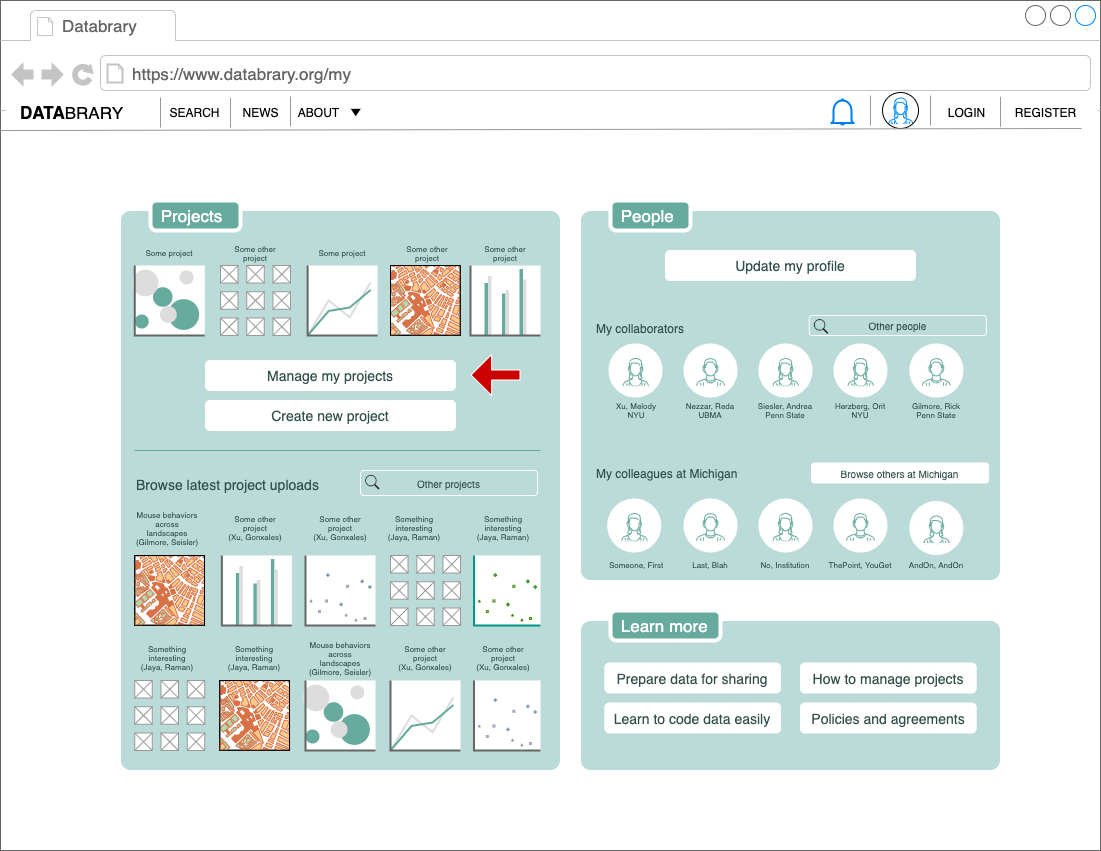
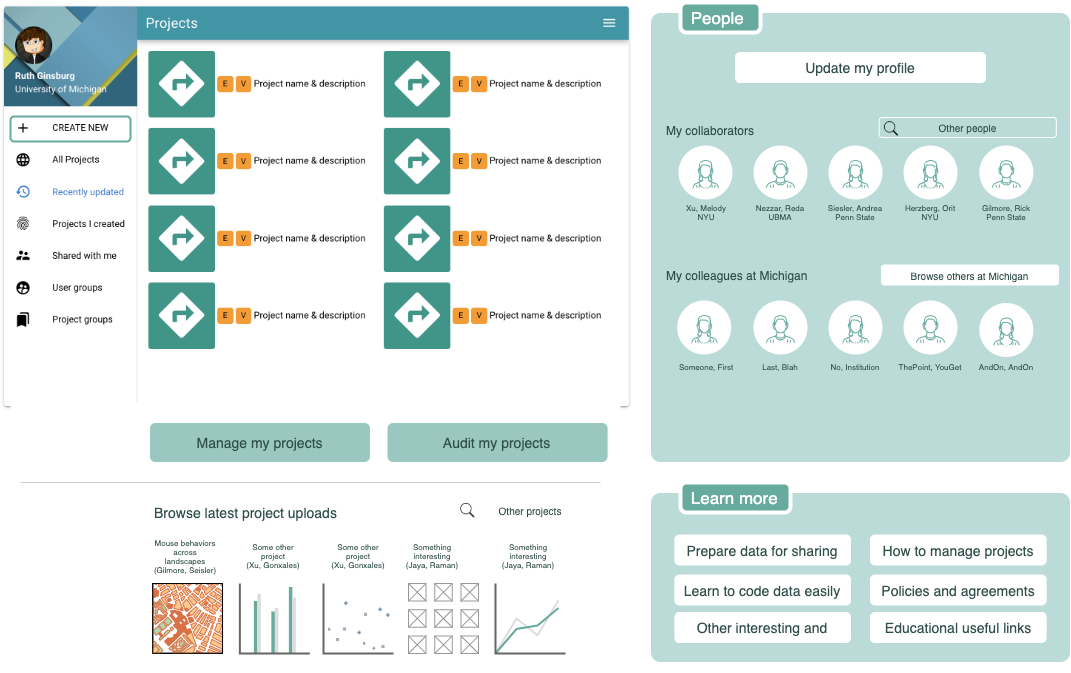
Completed dashboard page with mockups and links

diff --git a/docs/dashboardAuth.html b/docs/dashboardAuth.html
@@ -367,7 +367,9 @@ $(document).ready(function () {
 </div>
 
 
-<p><img src="img/dashboard_a_regular.png" /><!-- --></p>
+<p>Dashboard overview <img src="img/dashboard_a_regular.png" /><!-- --></p>
+<hr />
+<p>Dashboard linkages <img src="img/dashboard_a_regular_modal.png" /><!-- --></p>
 <div id="purpose" class="section level1">
 <h1>Purpose</h1>
 <p>This is a user’s dashboard or primary landing page. It is where users land after they log-in from the Databrary home page.</p>
@@ -430,6 +432,9 @@ $(document).ready(function () {
 <li><a href="settings.html">settings</a> through “Update my profile” button</li>
 <li><a href="search.html">search</a> page through “search people” button</li>
 <li><a href="search.html">search</a> results page of all users belonging to /my/org through “browse colleagues” button</li>
+<li>[person] public pages of other users page from the “people” section</li>
+<li>[org] public page of user’s own institution page from the “people” section</li>
+<li>[static pages]</li>
 </ul>
 </div>
 </div>
